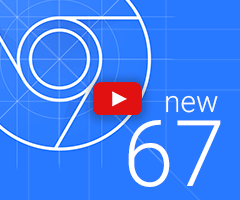
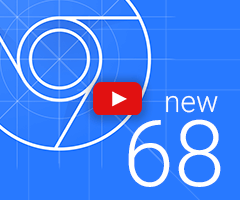
[devtools] update what's new UI for m68
Bug: 846098
Commit-Queue: Pavel Feldman <pfeldman@chromium.org>
Commit-Queue: Kayce Basques <kayce@chromium.org>
Cr-Original-Commit-Position: refs/heads/master@{#561286}
Cr-Mirrored-From: https://chromium.googlesource.com/chromium/src
Cr-Mirrored-Commit: 2e74ae3db7c31d5a0a83f4d96d659f3d8ab8ef0f

Changed region(s): [[0.7292, 0.57, 0.9333, 0.96]]

diff --git a/blink/renderer/devtools/front_end/help/ReleaseNoteText.js b/blink/renderer/devtools/front_end/help/ReleaseNoteText.js
@@ -13,6 +13,33 @@ const commandMenuShortcut = Host.isMac() ? 'Command + Shift + P' : 'Control + Sh
 /** @type {!Array<!Help.ReleaseNote>} */
 Help.releaseNoteText = [
   {
+    version: 11,
+    header: 'Highlights from the Chrome 68 update',
+    highlights: [
+      {
+        title: 'Eager evaluation',
+        subtitle: 'Preview return values in the Console without explicitly executing expressions.',
+        link: 'https://developers.google.com/web/updates/2018/05/devtools#eagerevaluation',
+      },
+      {
+        title: 'Argument hints',
+        subtitle: `View a function's expected arguments in the Console.`,
+        link: 'https://developers.google.com/web/updates/2018/05/devtools#hints',
+      },
+      {
+        title: 'Function autocompletion',
+        subtitle: 'View available properties and methods after calling a function in the Console.',
+        link: 'https://developers.google.com/web/updates/2018/05/devtools#autocomplete',
+      },
+      {
+        title: 'Audits panel updates',
+        subtitle: 'Faster, more consisent audits, a new UI, and new audits, thanks to Lighthouse 3.0.',
+        link: 'https://developers.google.com/web/updates/2018/05/devtools#lh3',
+      }
+    ],
+    link: 'https://developers.google.com/web/updates/2018/05/devtools',
+  },
+  {
     version: 10,
     header: 'Highlights from the Chrome 67 update',
     highlights: [
